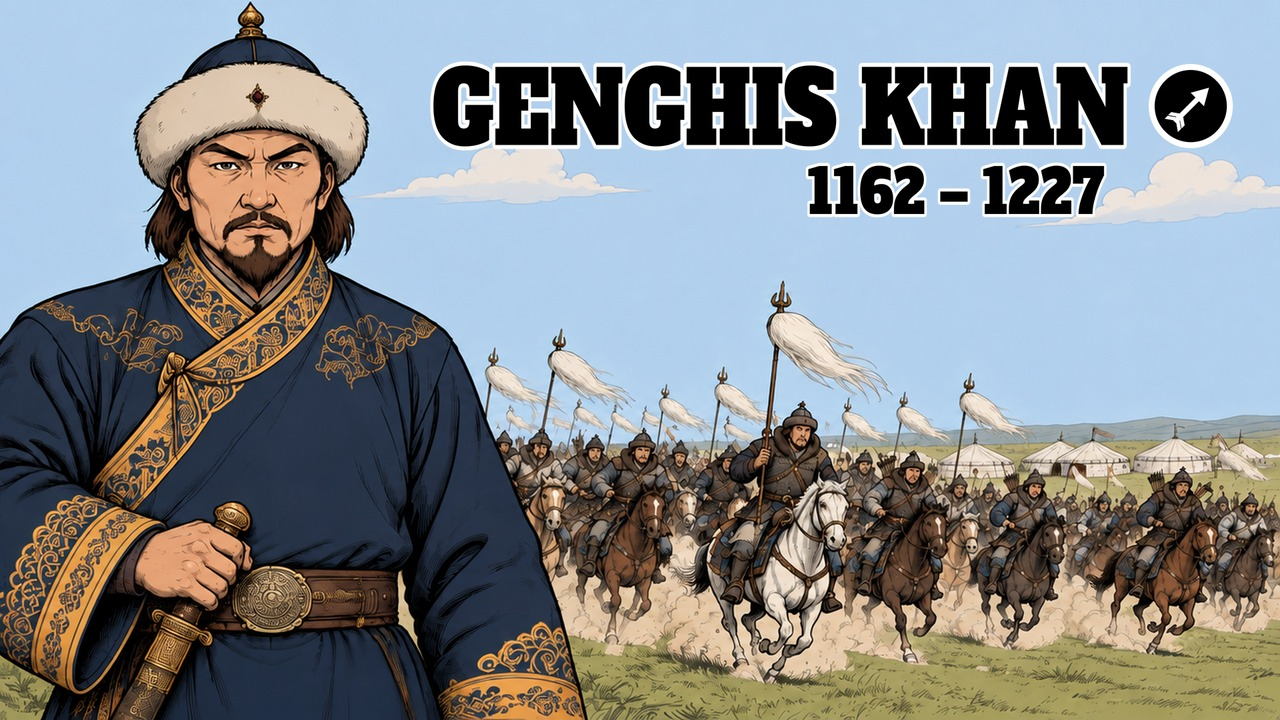
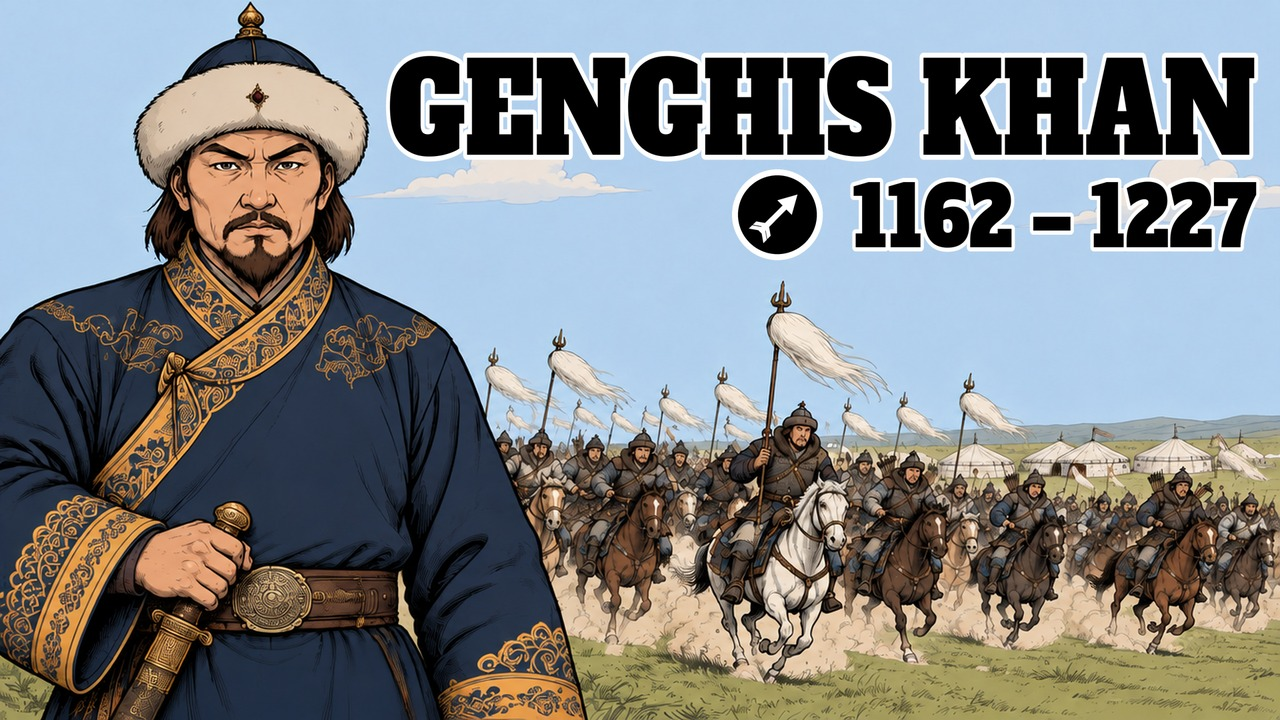
Genghis thumbnail: larger title and years; Tut: sub-pixel camera motion instead of zoompan (no shake)
Claude-Session: https://claude.ai/code/session_01TNc2K3rtukezXrYScECeSq

Changed region(s): [[0.2812, 0.0611, 1.0, 0.3667]]

diff --git a/history/tut/make_video.py b/history/tut/make_video.py
@@ -94,10 +94,20 @@ def segment(i, k, dur):
         cmd = ["ffmpeg", "-v", "error", "-y", "-i", src, "-i", ov, "-filter_complex",
                f"[0:v]{vf}[v];[v][1:v]overlay=0:0,format=yuv420p,tpad=stop_mode=clone:stop_duration=30", "-frames:v", str(n)]
     else:
-        z = {"in": "1+0.08*on/{n}", "out": "1.08-0.08*on/{n}", "l": "1.08", "r": "1.08"}[mot].format(n=n)
-        x = {"in": "iw/2-(iw/zoom/2)", "out": "iw/2-(iw/zoom/2)", "l": "(iw-iw/zoom)*(1-on/{n})", "r": "(iw-iw/zoom)*on/{n}"}[mot].format(n=n)
-        vf = f"scale=3840:2160,zoompan=z='{z}':x='{x}':y='ih/2-(ih/zoom/2)':d={n}:s={W}x{Hh}:fps={FPS}"
-        cmd = ["ffmpeg", "-v", "error", "-y", "-loop", "1", "-i", img, "-i", ov, "-filter_complex", f"[0:v]{vf}[v];[v][1:v]overlay=0:0,format=yuv420p", "-frames:v", str(n)]
+        # smooth camera move: sub-pixel crop box per frame (zoompan rounds to whole pixels -> visible shake)
+        src = (Image.open(img).convert("RGB").resize((2 * W, 2 * Hh), Image.LANCZOS) if isinstance(k, str) else _cover(frame(k), 2 * W, 2 * Hh).convert("RGB"))
+        cmd0 = ["ffmpeg", "-v", "error", "-y", "-f", "rawvideo", "-pix_fmt", "rgb24", "-s", f"{W}x{Hh}", "-r", str(FPS), "-i", "-",
+                "-i", ov, "-filter_complex", "[0:v][1:v]overlay=0:0,format=yuv420p", "-frames:v", str(n),
+                "-c:v", "libx264", "-preset", "veryfast", "-crf", "20", "-r", str(FPS), out]
+        pr = subprocess.Popen(cmd0, stdin=subprocess.PIPE)
+        for f in range(n):
+            t = f / max(1, n - 1); t = t * t * (3 - 2 * t) * 0.35 + t * 0.65   # gentle ease at the ends
+            z = {"in": 1 + .08 * t, "out": 1.08 - .08 * t, "l": 1.08, "r": 1.08}[mot]
+            cw, ch = W / z, Hh / z
+            x0 = {"in": (W - cw) / 2, "out": (W - cw) / 2, "l": (W - cw) * (1 - t), "r": (W - cw) * t}[mot]; y0 = (Hh - ch) / 2
+            pr.stdin.write(src.resize((W, Hh), Image.BICUBIC, box=(2 * x0, 2 * y0, 2 * (x0 + cw), 2 * (y0 + ch))).tobytes())
+        pr.stdin.close(); pr.wait(); assert pr.returncode == 0, out
+        return
     subprocess.run(cmd + ["-c:v", "libx264", "-preset", "veryfast", "-crf", "20", "-r", str(FPS), out], check=True)
 
 rng = None

diff --git a/history/genghis/thumbs/make_thumb.py b/history/genghis/thumbs/make_thumb.py
@@ -13,13 +13,13 @@ def layer(text, size, stroke, squeeze):
     ImageDraw.Draw(L).text((2 - b[0], 2 - b[1]), text, font=f, fill="black", stroke_width=stroke, stroke_fill="white")
     return L.resize((int(L.width * squeeze), L.height), Image.LANCZOS)
 T = layer("GENGHIS KHAN", 300, 12, .78)
-T = T.resize((int(W * .55), int(T.height * W * .55 / T.width)), Image.LANCZOS)
+T = T.resize((int(W * .685), int(T.height * W * .685 / T.width)), Image.LANCZOS)
 Y = layer("1162 – 1227", 200, 10, .80)
-Y = Y.resize((int(Y.width * T.height * .62 / Y.height), int(T.height * .62)), Image.LANCZOS)
-x1 = int(W * .885); ty = int(H * .085)
+Y = Y.resize((int(Y.width * T.height * .68 / Y.height), int(T.height * .68)), Image.LANCZOS)
+x1 = int(W * .985); ty = int(H * .07)
 im.paste(T, (x1 - T.width, ty), T)
-im.paste(Y, (x1 - Y.width - int(W * .02), ty + T.height + int(H * .015)), Y)
-r = int(T.height * .40); cx = x1 + int(W * .012) + r + 10; cy = ty + T.height // 2
+yy = ty + T.height + int(H * .02); im.paste(Y, (x1 - Y.width, yy), Y)
+r = int(Y.height * .52); cx = x1 - Y.width - int(W * .02) - r - 10; cy = yy + Y.height // 2
 S = 4
 def mask(fn):
     m = Image.new("L", (W * S, H * S), 0); fn(ImageDraw.Draw(m)); return m.resize((W, H), Image.LANCZOS)
